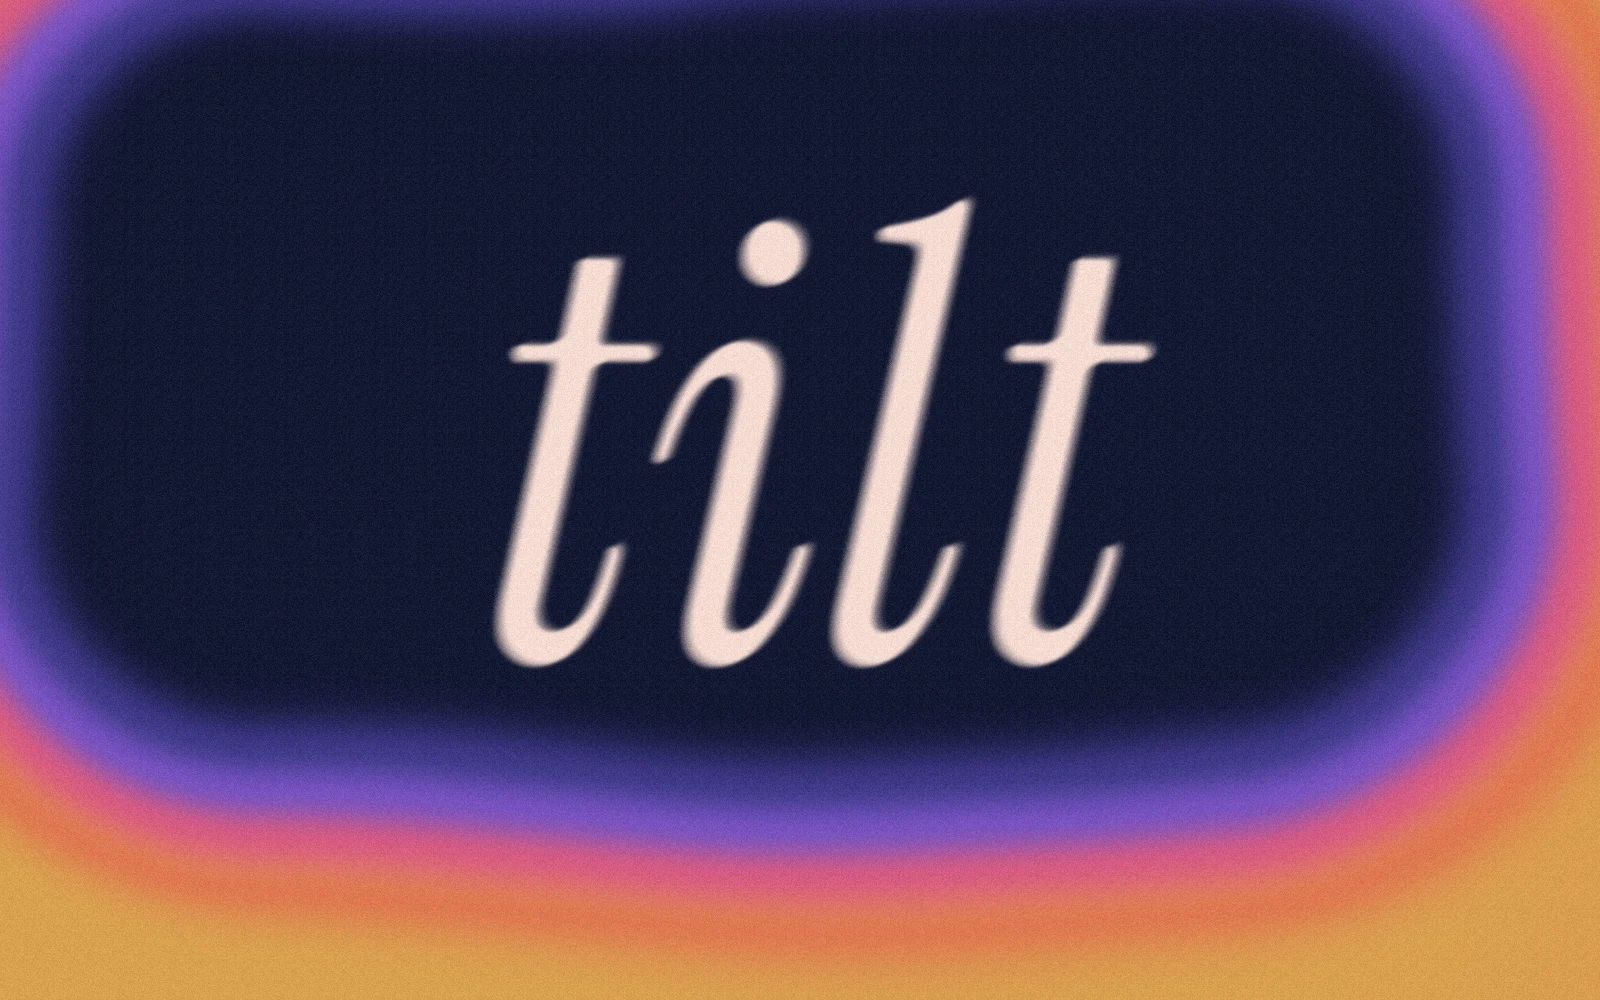
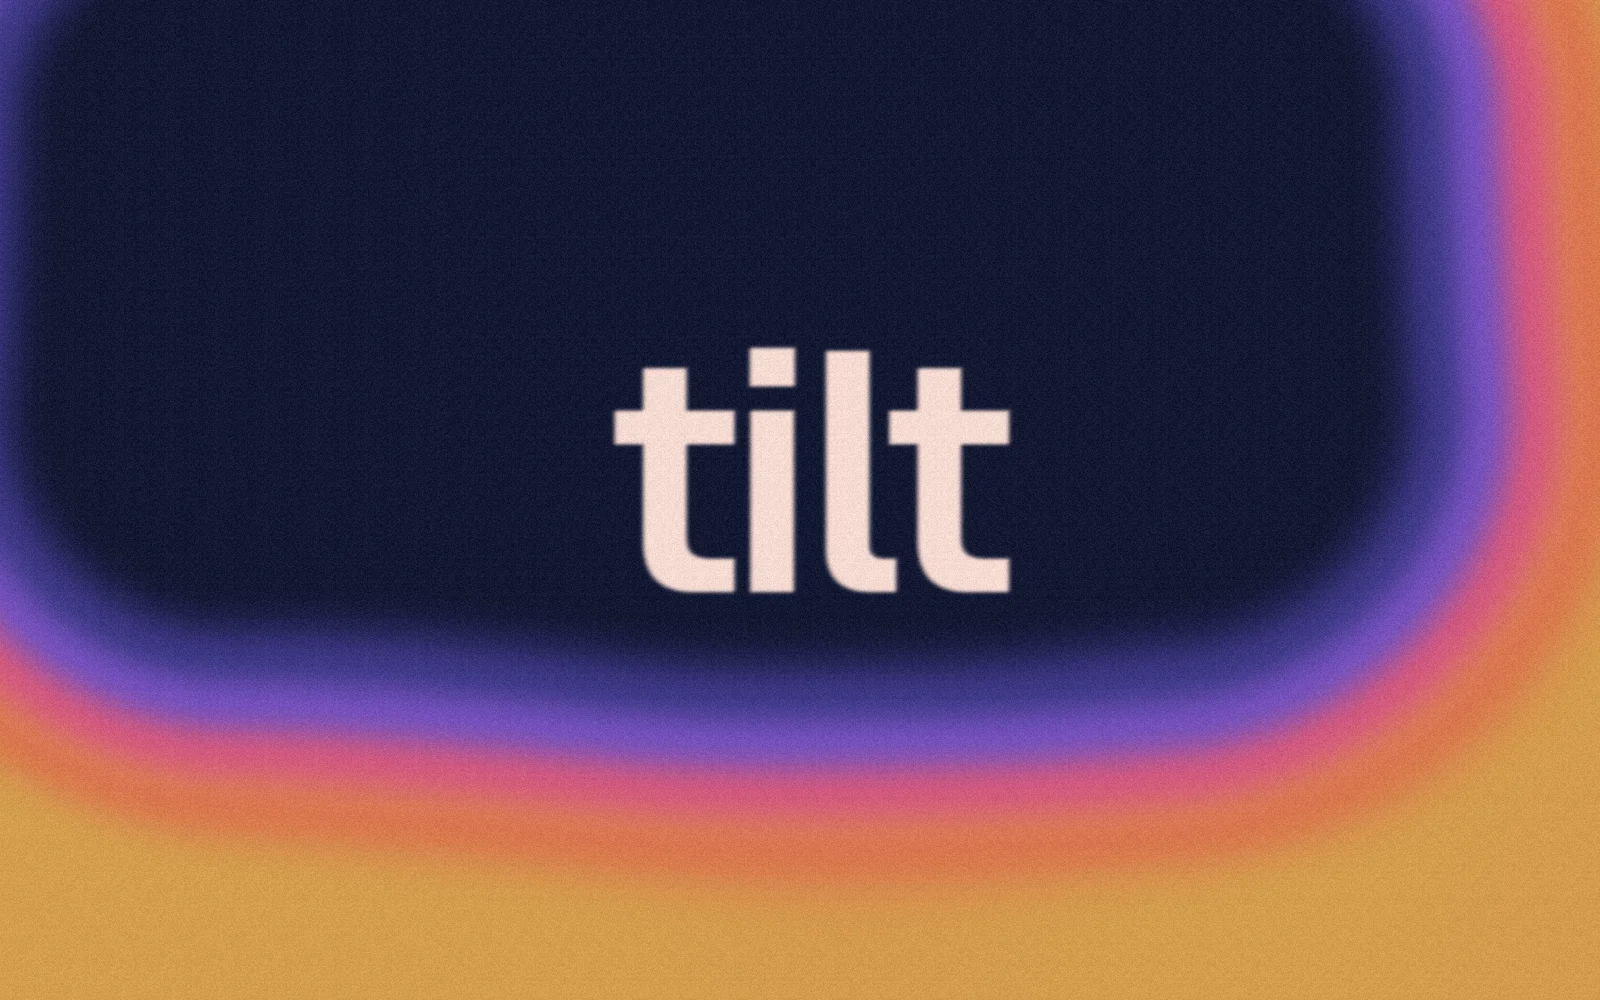
Tilt: Geist type held still in the centre, much more reactive slime, tap or shake to strum, chord landings bloom, add-to-home-screen full screen mode
Claude-Session: https://claude.ai/code/session_01Y3AaQQr9PLbA89msM4a35n

diff --git a/tilt.html b/tilt.html
@@ -7,23 +7,29 @@
 <title>Tilt — Stefan Foster</title>
 <meta name="description" content="A tiny instrument for your phone. Turn it, tilt it, play it.">
 <link rel="icon" href="/favicon-32.png">
-<link rel="preload" href="/vendor/fonts/instrument-serif-latin-400-italic.woff2" as="font" type="font/woff2" crossorigin>
+<link rel="manifest" href="/tilt.webmanifest">
+<link rel="apple-touch-icon" href="/media/ai-experiments/tilt-icon.png">
+<meta name="apple-mobile-web-app-capable" content="yes">
+<meta name="mobile-web-app-capable" content="yes">
+<meta name="apple-mobile-web-app-status-bar-style" content="black-translucent">
+<meta name="apple-mobile-web-app-title" content="Tilt">
+<link rel="preload" href="/vendor/fonts/geist.woff2" as="font" type="font/woff2" crossorigin>
 <style>
-  @font-face { font-family: "Instrument Serif"; font-style: italic; font-weight: 400; font-display: block;
-    src: url(/vendor/fonts/instrument-serif-latin-400-italic.woff2) format("woff2"); }
+  @font-face { font-family: "Geist"; font-weight: 100 900; font-display: block;
+    src: url(/vendor/fonts/geist.woff2) format("woff2"); }
   * { box-sizing: border-box; margin: 0; padding: 0; }
   html, body { height: 100%; background: #0b0d12; }
   body {
     color: #fff;
-    font-family: -apple-system, BlinkMacSystemFont, "Helvetica Neue", Helvetica, Arial, sans-serif;
+    font-family: "Geist", -apple-system, BlinkMacSystemFont, "Helvetica Neue", Helvetica, Arial, sans-serif;
     -webkit-font-smoothing: antialiased;
     overflow: hidden; touch-action: none; user-select: none; -webkit-user-select: none; -webkit-touch-callout: none;
   }
   canvas { position: fixed; inset: 0; width: 100%; height: 100%; display: block; }
   #ink { pointer-events: none; }
-  .readout { position: fixed; left: 50%; top: 50%; text-align: center; pointer-events: none; will-change: transform; }
+  .readout { position: fixed; left: 50%; top: calc(50% + 30px); text-align: center; pointer-events: none; will-change: transform; }
   .big { display: none; font-size: clamp(40px, 13vw, 76px); font-weight: 600; letter-spacing: -0.055em; line-height: .9; white-space: nowrap; opacity: .92; }
-  .sub { margin-top: 74px; font-size: 12px; opacity: .6; min-height: 1.2em; white-space: nowrap; }
+  .sub { margin-top: 0; font-size: 12px; opacity: .6; min-height: 1.2em; white-space: nowrap; }
   .gate {
     position: fixed; inset: 0; display: grid; place-items: end center; text-align: center;
     padding: 32px 32px max(9vh, env(safe-area-inset-bottom));
@@ -33,6 +39,11 @@
   .gate h2 { font-size: clamp(44px, 15vw, 88px); font-weight: 600; letter-spacing: -0.055em; line-height: .9; }
   .gate ol { list-style: none; margin: 26px auto 0; max-width: 30ch; font-size: 14px; line-height: 1.5; opacity: .82; }
   .gate li + li { margin-top: 8px; }
+  .gate .small { margin-top: 18px; font-size: 12px; opacity: .55; line-height: 1.45; max-width: 30ch; margin-left: auto; margin-right: auto; }
+  .toast { position: fixed; left: 50%; bottom: max(28px, env(safe-area-inset-bottom)); transform: translate(-50%, 20px); opacity: 0;
+           font-size: 12px; padding: 9px 14px; border-radius: 999px; background: rgba(255,255,255,.14);
+           backdrop-filter: blur(20px); -webkit-backdrop-filter: blur(20px); transition: opacity .5s, transform .5s; pointer-events: none; white-space: nowrap; }
+  .toast.on { opacity: 1; transform: translate(-50%, 0); }
   .gate .tap { margin-top: 32px; display: inline-block; font-size: 14px; font-weight: 600; padding: 13px 22px; border-radius: 999px;
                background: rgba(255,255,255,.94); color: #0b0d12; }
   .desk { position: fixed; inset: 0; display: none; place-items: center; text-align: center; padding: 40px; }
@@ -48,6 +59,7 @@
 <body>
 <canvas id="gl"></canvas>
 <canvas id="ink"></canvas>
+<div class="toast" id="toast">Turn on rotation lock for the smoothest ride</div>
 <div class="readout" id="readout"><div class="big" id="big"></div><div class="sub" id="sub"></div></div>
 
 <div class="gate" id="gate">
@@ -55,7 +67,9 @@
     <ol aria-label="Tilt">
       <li>Turn your phone like a steering wheel, upright to upside down, to glide through the chords.</li>
       <li>Tilt the top back to open it up. Tip it forward to hush it.</li>
+      <li>Tap or shake to strum.</li>
     </ol>
+    <p class="small">Turn on rotation lock first so the screen stays put.<span id="a2hs"><br>For full screen: Share, then Add to Home Screen.</span></p>
     <span class="tap">Tap to begin</span>
   </div>
 </div>
@@ -114,6 +128,9 @@
   let exprT = 0.4, expr = 0.4;                          // tilt-back expression 0..1
   let level = 0, low = 0, hue = 0, hueT = 0, inten = 0.6, intenT = 0.6, textRot = 0;
   let slideNow = 0;
+  let bloom = 0, rip = [0, 0, 99], lastStrum = 0, lastIndex = 0;
+  const standalone = navigator.standalone || matchMedia('(display-mode: standalone), (display-mode: fullscreen)').matches;
+  if (standalone) $('a2hs').remove();
 
   // ---------- phone motion ----------
   function onMotion(e) {
@@ -127,6 +144,14 @@
     if (m2 > 0.2 * mag) {
       fallT = [fx / m2, -fy / m2];                                       // screen coords, y down
       target = Math.acos(Math.max(-1, Math.min(1, fallT[1]))) / Math.PI; // steering-wheel turn: upright 0 -> upside down 1
+    }
+    // shake: slosh the slime, and a hard shake strums the chord
+    const a = e.acceleration;
+    if (a && a.x != null) {
+      const sx = (a.x || 0) * -gSign, sy = (a.y || 0) * gSign;
+      slime.vx += sx * 0.05; slime.vy += sy * 0.05;
+      const am = Math.hypot(a.x || 0, a.y || 0, a.z || 0);
+      if (am > 13 && ctx && performance.now() - lastStrum > 700) { strum(0.9, W / 2, H / 2); }
     }
     const back = ((g.z || 0) * gSign) / mag;                             // + when the screen tilts back toward the sky
     exprT = clamp01(0.4 + back * 0.9);
@@ -156,6 +181,32 @@
     comp.connect(analyser);
     tbuf = new Float32Array(analyser.fftSize); fbuf = new Uint8Array(analyser.frequencyBinCount);
     chords = Chords();
+  }
+
+  // A soft glassy strum up through the chord you're on, with a ripple through the slime where you touched.
+  function strum(vel, x, y) {
+    if (!ctx) return;
+    const now = performance.now();
+    lastStrum = now; lastMove = now;
+    bloom = Math.max(bloom, 0.6 * vel);
+    rip = [(x / W - 0.5) * (W / H), y / H - 0.5, 0];
+    const c = chordAt(Math.round(slideNow));
+    const notes = c.notes.slice(1).map(l => Math.round(12 * (l - Math.log2(440)) + 69)).map(m => m < 64 ? m + 12 : m).sort((a, b) => a - b);
+    const t0 = ctx.currentTime + 0.01;
+    const lp = ctx.createBiquadFilter(); lp.type = 'lowpass'; lp.frequency.value = 1800 + 5000 * expr; lp.connect(bus);
+    notes.forEach((m, i) => {
+      const t = t0 + i * 0.055;
+      const f = midiHz(m);
+      const o1 = ctx.createOscillator(); o1.type = 'triangle'; o1.frequency.value = f;
+      const o2 = ctx.createOscillator(); o2.type = 'sine'; o2.frequency.value = f * 2;
+      const g1 = ctx.createGain(), g2 = ctx.createGain(), pan = ctx.createStereoPanner();
+      pan.pan.value = -0.7 + 1.4 * i / Math.max(1, notes.length - 1);
+      const peak = 0.07 * vel;
+      g1.gain.setValueAtTime(0, t); g1.gain.linearRampToValueAtTime(peak, t + 0.006); g1.gain.exponentialRampToValueAtTime(0.0001, t + 2.4);
+      g2.gain.setValueAtTime(0, t); g2.gain.linearRampToValueAtTime(peak * 0.35, t + 0.004); g2.gain.exponentialRampToValueAtTime(0.0001, t + 0.7);
+      o1.connect(g1); o2.connect(g2); g1.connect(pan); g2.connect(pan); pan.connect(lp);
+      o1.start(t); o2.start(t); o1.stop(t + 2.6); o2.stop(t + 0.8);
+    });
   }
 
   // The chord pad: 8 voices x 3 detuned saws, sliding between chords as the phone turns.
@@ -201,7 +252,7 @@
         const cutoff = (500 + 1500 * it + 2600 * clamp01(speed / 0.45) * it) * (0.45 + 1.6 * ex);
         lp.frequency.setTargetAtTime(Math.min(cutoff, 14000), t, 0.06);
         out.gain.setTargetAtTime(active ? (0.5 + 0.45 * it) * (0.35 + 0.75 * ex) : 0, t, active ? 0.15 : 1.0);
-        return { A, B, f, it };
+        return { A, B, f, it, index };
       }
     };
   }
@@ -225,7 +276,7 @@
     return { x: dx * fr.cs + dy * fr.sn, y: -dx * fr.sn + dy * fr.cs };
   };
 
-  addEventListener('pointerdown', e => { if (!ctx) return; touch.on = true; touch.x = e.clientX; touch.y = e.clientY; });
+  addEventListener('pointerdown', e => { if (!ctx) return; strum(1, e.clientX, e.clientY); });
   addEventListener('pointermove', e => { if (touch.on) { touch.x = e.clientX; touch.y = e.clientY; } });
   addEventListener('pointerup', () => touch.on = false);
   addEventListener('pointercancel', () => touch.on = false);
@@ -250,7 +301,6 @@
     window.addEventListener('devicemotion', onMotion);
     startAudio();
     await ctx.resume();
-    circle.x = W / 2; circle.y = H * 0.72;
     $('gate').classList.add('gone');
   });
 
@@ -258,7 +308,8 @@
 precision highp float;
 varying vec2 uv;
 uniform vec2 res;
-uniform float time, level, low, hue, inten;
+uniform float time, level, low, hue, inten, bloom;
+uniform vec3 rip;
 uniform vec2 fall, stretch, drag;
 uniform sampler2D txt;
 
@@ -300,7 +351,7 @@ void main(){
   vec2 g = fall;
 
   // The dark core floats up away from gravity, so the colour pools wherever "down" is.
-  vec2 c = -g * (0.16 + 0.03 * low);
+  vec2 c = -g * (0.26 + 0.06 * low + 0.04 * bloom);
   vec2 p = q - c;
   // It sags and stretches with the flip, like something heavy and slow.
   vec2 sdir = length(stretch) > 1e-4 ? normalize(stretch) : vec2(0.0, 1.0);
@@ -319,14 +370,20 @@ void main(){
   d -= lobes * 0.07 + sag * (0.05 + 0.08 * s) + side * 0.02;
 
   // How far out from the core we are, in the glow band. The sound swells the band.
-  float band = 0.20 + 0.06 * level + 0.05 * low + 0.03 * inten;
+  // a tap sends a ring through the slime
+  float rd = length(q - rip.xy);
+  float ring = exp(-pow((rd - rip.z * 0.55) * 7.0, 2.0)) * exp(-rip.z * 1.4);
+  d -= ring * 0.06;
+  float band = 0.20 + 0.10 * level + 0.09 * low + 0.07 * inten + 0.10 * bloom;
   float t = smoothstep(-0.10, band, d);
   t = pow(t, 0.9);
   t += (big(q * 1.4 + vec2(time * 0.03, -time * 0.02)) - 0.5) * 0.12 * t;   // slow marbling inside the colour
 
   float mood = 0.5 + 0.5 * sin(hue * 6.28318);
   vec3 col = mix(ramp(t), ramp2(t), mood * 0.55);
-  col *= 0.88 + 0.25 * level;
+  t += ring * 0.35;
+  col = mix(ramp(clamp(t, 0.0, 1.0)), ramp2(clamp(t, 0.0, 1.0)), mood * 0.55);
+  col *= 0.86 + 0.4 * level + 0.25 * bloom;
 
   // The words are made of the same slow stuff as the colour: when you turn the phone they lag,
   // smear and sink a little, like sand sliding through water, then settle back into letters.
@@ -371,9 +428,9 @@ void main(){
   gl.texParameteri(gl.TEXTURE_2D, gl.TEXTURE_WRAP_S, gl.CLAMP_TO_EDGE);
   gl.texParameteri(gl.TEXTURE_2D, gl.TEXTURE_WRAP_T, gl.CLAMP_TO_EDGE);
   gl.pixelStorei(gl.UNPACK_FLIP_Y_WEBGL, true);
-  const FONT = '"Instrument Serif", Georgia, serif';
+  const FONT = '"Geist", -apple-system, Helvetica, sans-serif';
   let fontReady = false;
-  document.fonts?.load(`italic 64px ${FONT}`).then(() => fontReady = true).catch(() => fontReady = true);
+  document.fonts?.load(`500 64px ${FONT}`).then(() => fontReady = true).catch(() => fontReady = true);
   setTimeout(() => fontReady = true, 2500);
   let wordNow = 'tilt';
   let wordBlur = 0;
@@ -384,13 +441,14 @@ void main(){
     if (!fontReady) return;
     tx.setTransform(sx, 0, 0, sx, 0, 0);
     tx.translate(x, y); tx.rotate(rot);
-    tx.font = `italic 400 ${size}px ${FONT}`;
+    tx.font = `${size > 80 ? 600 : 500} ${size}px ${FONT}`;
+    try { tx.letterSpacing = `${(-0.04 * size).toFixed(1)}px`; } catch (_) {}
     tx.textAlign = 'center'; tx.textBaseline = 'middle';
     tx.filter = wordBlur > 0.3 ? `blur(${wordBlur.toFixed(1)}px)` : 'none';   // the faster it moves, the softer it gets
     tx.fillStyle = '#fff';
     tx.fillText(word, 0, 0);
   }
-  const uDrag = U('drag'), uTxt = U('txt');
+  const uDrag = U('drag'), uTxt = U('txt'), uBloom = U('bloom'), uRip = U('rip');
   const uRes = U('res'), uTime = U('time'), uLevel = U('level'), uLow = U('low'), uHue = U('hue'), uInten = U('inten'), uFall = U('fall'), uStretch = U('stretch');
 
   function resize() {
@@ -405,6 +463,11 @@ void main(){
     if (!circle.x) { circle.x = W / 2; circle.y = H * 0.72; }
   }
   addEventListener('resize', resize); resize();
+  let toasted = false;
+  addEventListener('resize', () => {
+    if (!ctx || toasted || innerWidth <= innerHeight) return;
+    toasted = true; $('toast').classList.add('on'); setTimeout(() => $('toast').classList.remove('on'), 4200);
+  });
 
   // ---------- frame loop ----------
   const t0 = performance.now();
@@ -422,7 +485,7 @@ void main(){
     else if (!isPhone) fallT = [Math.sin(now / 4000) * 0.6, Math.cos(now / 4000)];
     fallFast[0] += (fallT[0] - fallFast[0]) * 0.2; fallFast[1] += (fallT[1] - fallFast[1]) * 0.2;
     const ff = Math.hypot(fallFast[0], fallFast[1]) || 1; fallFast[0] /= ff; fallFast[1] /= ff;
-    const k = 7, damp = 3.2;
+    const k = 16, damp = 4.2;
     slime.vx += ((fallT[0] - slime.x) * k - slime.vx * damp) * dt;
     slime.vy += ((fallT[1] - slime.y) * k - slime.vy * damp) * dt;
     slime.x += slime.vx * dt; slime.y += slime.vy * dt;
@@ -449,6 +512,7 @@ void main(){
       wordNow = chordNow.name;
       $('sub').textContent = r.f > 0.04 && r.f < 0.96 ? r.A.name + '  →  ' + r.B.name : '';
       hueT = slideNow * 0.137; intenT = r.it;
+      if (r.index !== lastIndex) { lastIndex = r.index; bloom = 1; strum(0.45, W / 2, H / 2); }
     }
     drawInk(chordNow, now);
 
@@ -462,22 +526,24 @@ void main(){
     // and float it toward the real-world top, out of the circle's way
     const fr2 = worldFrame();
     const up = 0;   // centre stage now the lead is gone
-    $('readout').style.transform = `translate(${-Math.sin(-textRot) * up}px, ${-Math.cos(textRot) * up}px) translate(-50%, -50%) rotate(${textRot}rad)`;
+    $('readout').style.transform = 'translate(-50%, 0)';
 
     gl.uniform2f(uRes, canvas.width, canvas.height);
     gl.uniform1f(uTime, (now - t0) / 1000);
     gl.uniform1f(uLevel, level); gl.uniform1f(uLow, low);
     gl.uniform1f(uHue, hue); gl.uniform1f(uInten, inten * (0.6 + 0.6 * expr));
     gl.uniform2f(uFall, slime.x / sl, slime.y / sl);
-    gl.uniform2f(uStretch, slime.vx * 0.35, slime.vy * 0.35);
+    gl.uniform2f(uStretch, slime.vx * 0.6, slime.vy * 0.6);
+    bloom *= Math.exp(-dt / 0.9);
+    rip[2] += dt;
+    gl.uniform1f(uBloom, bloom); gl.uniform3f(uRip, rip[0], rip[1], rip[2]);
     // the word: "tilt" until you start, then the chord, upright in the real world
     wordBlur += (Math.min(Math.hypot(slime.vx, slime.vy) * 6, 5) - wordBlur) * 0.2;
     const started = !!ctx && !THUMB;
     if (started) {
-      const cx = W / 2 - Math.sin(-textRot) * up, cy = H / 2 - Math.cos(textRot) * up;
-      drawWord(wordNow, cx, cy, textRot, Math.min(W * 0.17, 92));
+      drawWord(wordNow, W / 2, H / 2, 0, Math.min(W * 0.085, 40));
     } else {
-      drawWord('tilt', W / 2, THUMB ? H * 0.5 : H * 0.3, 0, Math.min(W * 0.42, THUMB ? H * 0.62 : 230));
+      drawWord('tilt', W / 2, THUMB ? H * 0.5 : H * 0.3, 0, Math.min(W * 0.26, THUMB ? H * 0.34 : 130));
     }
     gl.activeTexture(gl.TEXTURE0); gl.bindTexture(gl.TEXTURE_2D, ttex);
     gl.texImage2D(gl.TEXTURE_2D, 0, gl.RGBA, gl.RGBA, gl.UNSIGNED_BYTE, tc);
